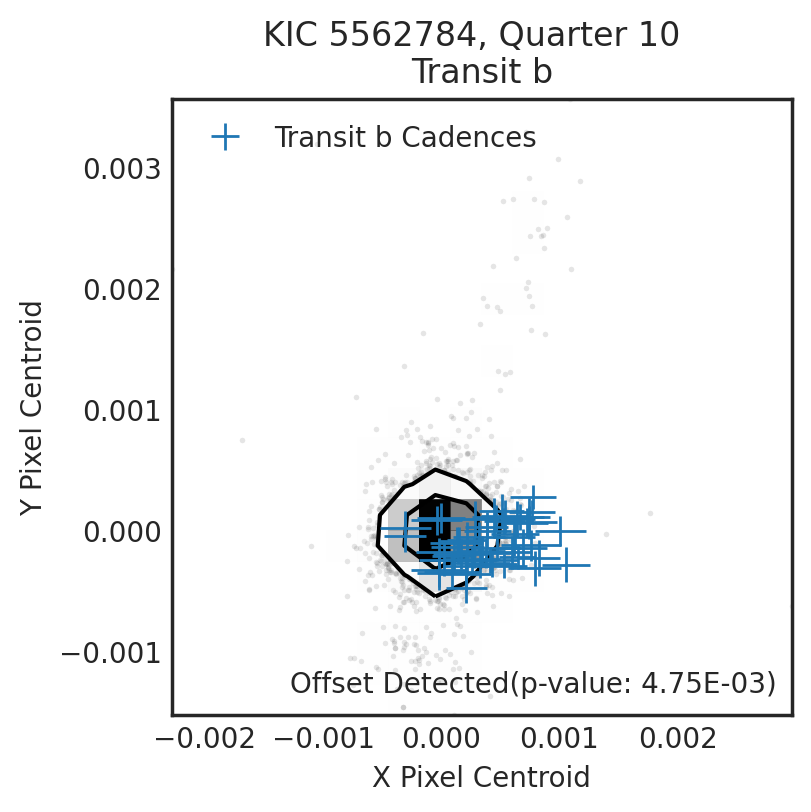
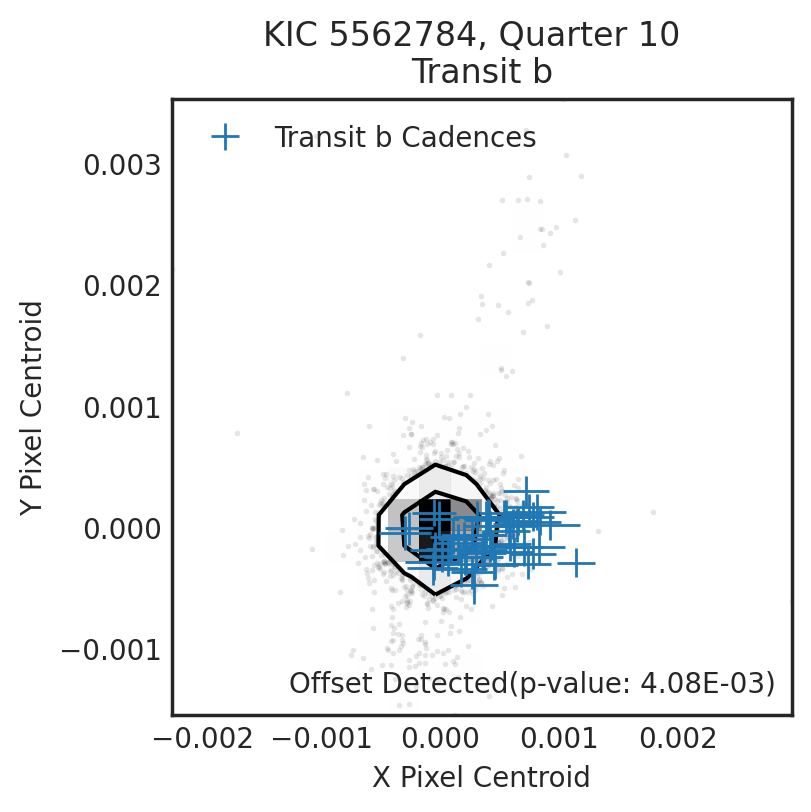
:white_check_mark: fixing tests

diff --git a/src/vetting/centroiding.py b/src/vetting/centroiding.py
@@ -91,7 +91,7 @@ def centroid_test(
         tmasks = []
         for period, t0, duration in zip(periods, t0s, durs):
             bls = lc.to_periodogram("bls", period=[period, period], duration=duration)
-            t_mask = bls.get_transit_mask(
+            t_mask = ~bls.get_transit_mask(
                 period=period, transit_time=t0, duration=duration
             )
             tmasks.append(t_mask)
@@ -124,7 +124,7 @@ def centroid_test(
                 targetid="x",
             )
             s = lk.SFFCorrector(xlc)
-            s.correct(windows=20, bins=10, cadence_mask=~t_mask)
+            s.correct(windows=20, bins=10, cadence_mask=t_mask)
             xcent[:, 0] -= s.model_lc.flux.value
 
             ylc = lk.KeplerLightCurve(
@@ -136,7 +136,7 @@ def centroid_test(
                 targetid="y",
             )
             s = lk.SFFCorrector(ylc)
-            s.correct(windows=20, bins=10, cadence_mask=~t_mask)
+            s.correct(windows=20, bins=10, cadence_mask=t_mask)
             ycent[:, 0] -= s.model_lc.flux.value
 
         breaks = np.where(np.diff(tpf.time) > 0.1)[0] + 1
@@ -174,7 +174,9 @@ def centroid_test(
         letter = "bcd"
         pvalues = []
         for idx in range(nplanets):
+            # NO Transits
             k1 = (tmasks).all(axis=0)
+            # Transits of planet IDX
             k2 = ~tmasks[idx]
             #            axs[idx].errorbar(xcent[:, 0][k1] - xtr[k1], ycent[:, 0][k1] - ytr[k1], xerr=xcent[:, 1][k1], yerr=ycent[:, 1][k1], c='k', ls='', lw=0.3, label='No Planet Cadences')
             if plot:
@@ -203,7 +205,9 @@ def centroid_test(
                 px = ttest_ind(x1[k1], x1[k2], equal_var=False)
                 py = ttest_ind(y1[k1], y1[k2], equal_var=False)
                 ps.append(np.mean([px.pvalue, py.pvalue]))
+
             pvalue = np.mean(ps)
+            pvalues.append(pvalue)
             if plot:
                 with plt.style.context("seaborn-white"):
                     if pvalue > 0.05:
@@ -230,6 +234,5 @@ def centroid_test(
                     plt.subplots_adjust(wspace=0)
                     r["figs"].append(fig)
 
-            pvalues.append(pvalue)
         r["pvalues"].append(tuple(pvalues))
     return r
